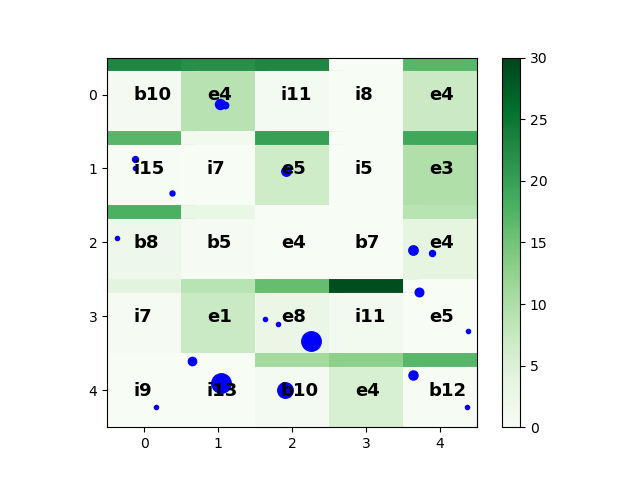
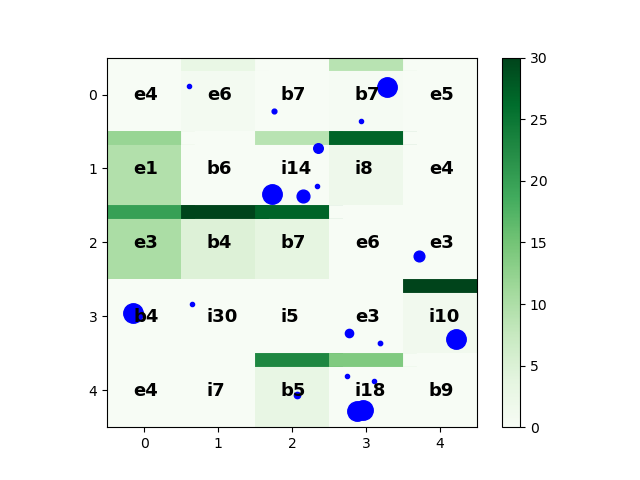
changed to visiblePayoffs

diff --git a/classScientist.py b/classScientist.py
@@ -25,22 +25,23 @@ class Scientist():
         i = weights["impact"] * (1/self.impact)
         e = weights["exploration"]
 
-
         # Calculate the probabilities for each cell
         probabilities = np.zeros_like(board.board)
-
         denominator = 0
         for x in range(board.rows):
             for y in range(board.cols):
                 # i should be associated with board payoff value
                 # e should be associated with numHits on the cell
                 # c should be associated with num scientists on the cell
-                denominator += np.exp((c * board.board[x][y].numSciHits) + (i * board.board[x][y].payoff) + (e * board.board[x][y].numHits))
+                # scientists see how much payoff has been extracted (visiblePayoff)
+                visiblePayoff = (board.originalPays[y][x] - board.board[x][y].payoff)
+                denominator += np.exp((c * board.board[x][y].numSciHits) + (i * visiblePayoff) + (e * 1/(1+board.board[x][y].numHits)))
         for j in range(board.rows):
             for k in range(board.cols):
                 X1 = board.board[j][k]
+                visiblePayoff = (board.originalPays[k][j] - board.board[j][k].payoff)
                 
-                numerator = np.exp((c * X1.numSciHits) + (i * X1.payoff) + (e * X1.numHits))
+                numerator = np.exp((c * X1.numSciHits) + (i * visiblePayoff) + (e * 1/(1 + X1.numHits)))
                 
                 probabilities[j][k] = numerator / denominator
 
@@ -80,15 +81,11 @@ class Scientist():
         """decides which other scientists in the cell get cited"""
         probs = self.citeProbs(val)
 
-        # if choosing 1 scientist to cite
-        # choice = random.choices(val, weights=probs, k=1)
-        # if choice != self:
-        #     choice.citcount += 1
-
-        # if choosing multiple people to cite
-        for i in range(len(val)):
-            if probs[i] > (1/len(val)):
-                # taking out self citing
-                if val[i] != self:
-                    val[i].citcount += 1
+        # randomly choose how many other scientists to cite, not including themselves
+        numCites = np.random.randint(0, len(val) + 1)
+        
+        choice = random.choices(val, weights=probs, k=numCites)
+        for elem in choice:
+            if elem != self:
+                elem.citcount += 1
         return
